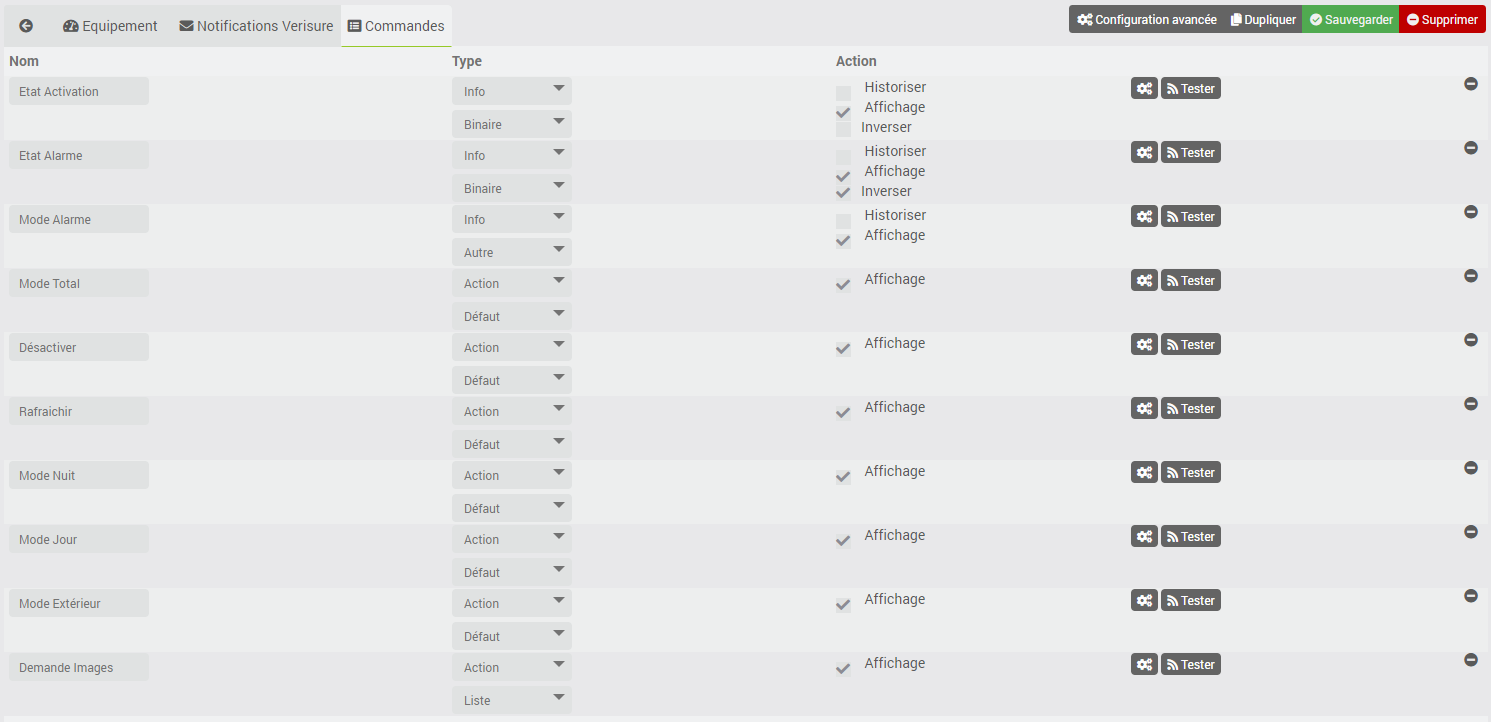
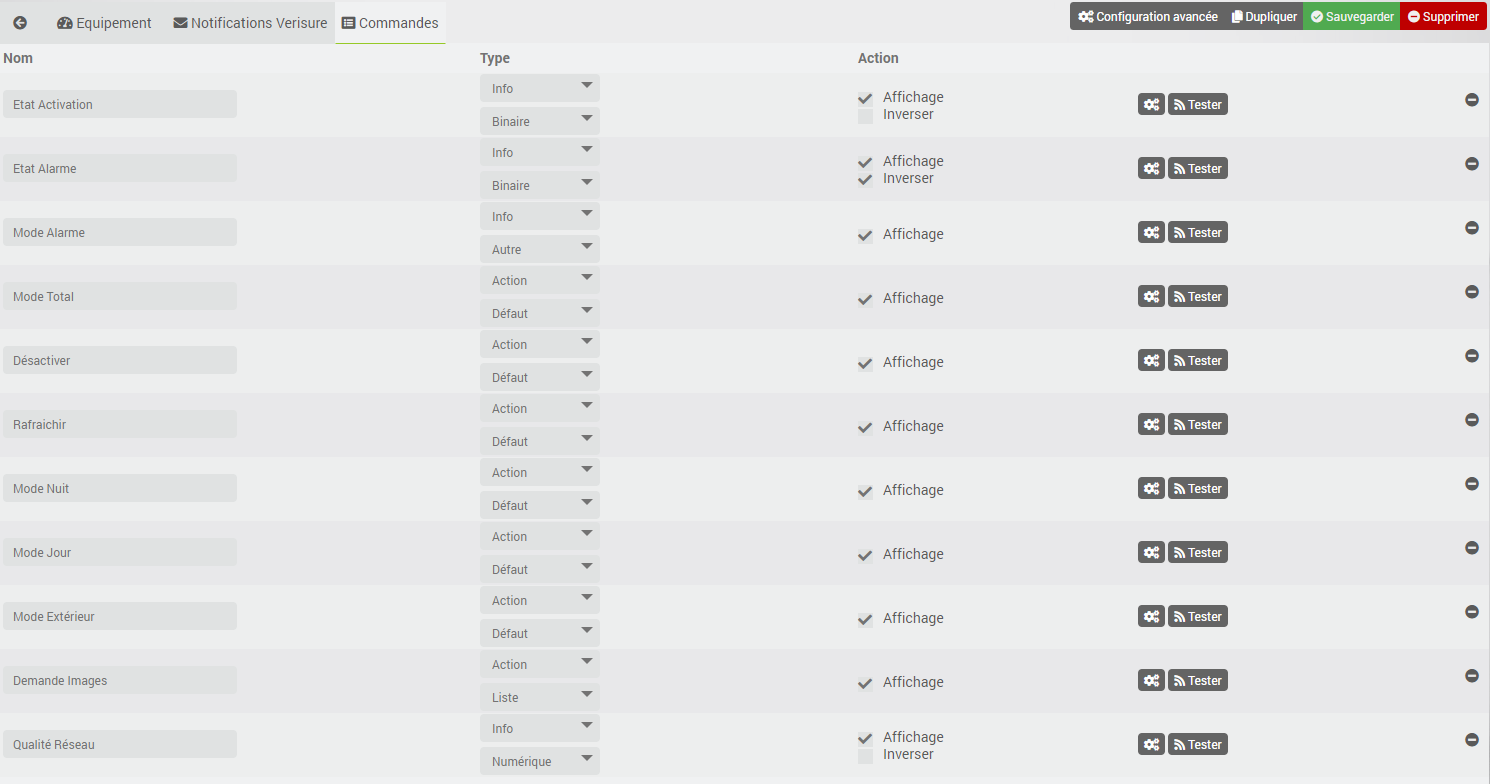
Add network quality info

diff --git a/verisure/fr_FR/index.md b/verisure/fr_FR/index.md
@@ -127,6 +127,8 @@ Il existe actuellement plusieurs commandes qui sont décrites ci-dessous.
 	- **Mode extérieur** : l'alarme est activée en mode extérieur (alarme type 1)
 	- **Mode partiel** : l'alarme est activée en mode partiel (alarme type 2)
 
+-   **Qualité réseau** : permet d'estimer la qualité du réseau 3G/4G des alarmes type 1 (basée sur le résultat des 25 dernières requêtes)
+
 **Attention** : dans cette version, l'évènement lié au déclenchement de l'alarme n'est pas encore pris en compte !
 
 
@@ -188,7 +190,14 @@ Le plugin inclut un dashboard qui permet de :
 -   Désactiver l'alarme (alarme type 1 & 2)
 -   Rafraichir le statut de l'alarme (alarme type 1 & 2)
 -   Demander la prise d'une photo depuis un capteur de mouvement compatible (alarme type 1 uniquement pour le moment)
--   Afficher les informations de certains smartplugs comme la température, ou l'état d'ouverture (!!! UNIQUEMENT alarme type 2 !!!)
+-   Afficher les informations de certains smartplugs comme la température, l'humidité, ou l'état d'ouverture (!!! UNIQUEMENT alarme type 2 !!!)
+-   Afficher le niveau de la qualité du réseau 3G/4G de l'alarme (alarme type 1)
+    - icone 5 barres : aucune requête en erreur sur les 25 dernières
+	- icone 4 barres : de 1 à 2 requêtes en erreur sur les 25 dernières
+	- icone 3 barres : de 3 à 7 requêtes en erreur sur les 25 dernières
+	- icone 2 barres : de 8 à 17 requêtes en erreur sur les 25 dernières
+	- icone 1 barre : de 18 à 24 requêtes en erreur sur les 25 dernières
+	- icone 0 barre : 25 requêtes en erreur sur les 25 dernières
 
 **Attention** : les commandes peuvent parfois mettre plusieurs secondes à se réaliser (entre 15s et 25s, voire plus d'une minute pour les demandes de photos). Cela est lié à la qualité de connexion 3G ou 4G de la base de votre alarme. Alors soyez patient !
 

diff --git a/verisure/fr_FR/changelog.md b/verisure/fr_FR/changelog.md
@@ -12,6 +12,18 @@ pluginId: verisure
 **Remarque** : en cas de mise à jour non listée ici, c'est que celle-ci ne comporte que des changements mineurs du type documentation ou corrections de bugs mineurs.
 
 
+# 2021-01-06
+
+Ajout des fonctions suivantes :
+ - Ajout d'une commande info "Qualité du réseau" pour les alarmes type 1. Cet indicateur est basé sur le nombre de requête réussie lors de la connexion au cloud Verisure
+ - Ajout de l'affichage sur le dashboard du niveau d'humidité des smartplugs compatibles pour les alamres de type 2
+
+Corrections suivantes :
+ - Nouvelle présentation de la liste des objets (conforme au core v4.1)
+ - Bug sur la timezone (UTC) du rapport d'activité des alarmes type 2 (basé dorénaavnt sur la timezone de Jeedom) 
+ - Correction des erreurs dans le log hhtp_error lors de l'affichage du rapport d'activité des alarmes type 1
+
+
 # 2020-11-06
 
 Correctifs suite aux modifications des API Verisure (authentification et paramètres des requêtes)
